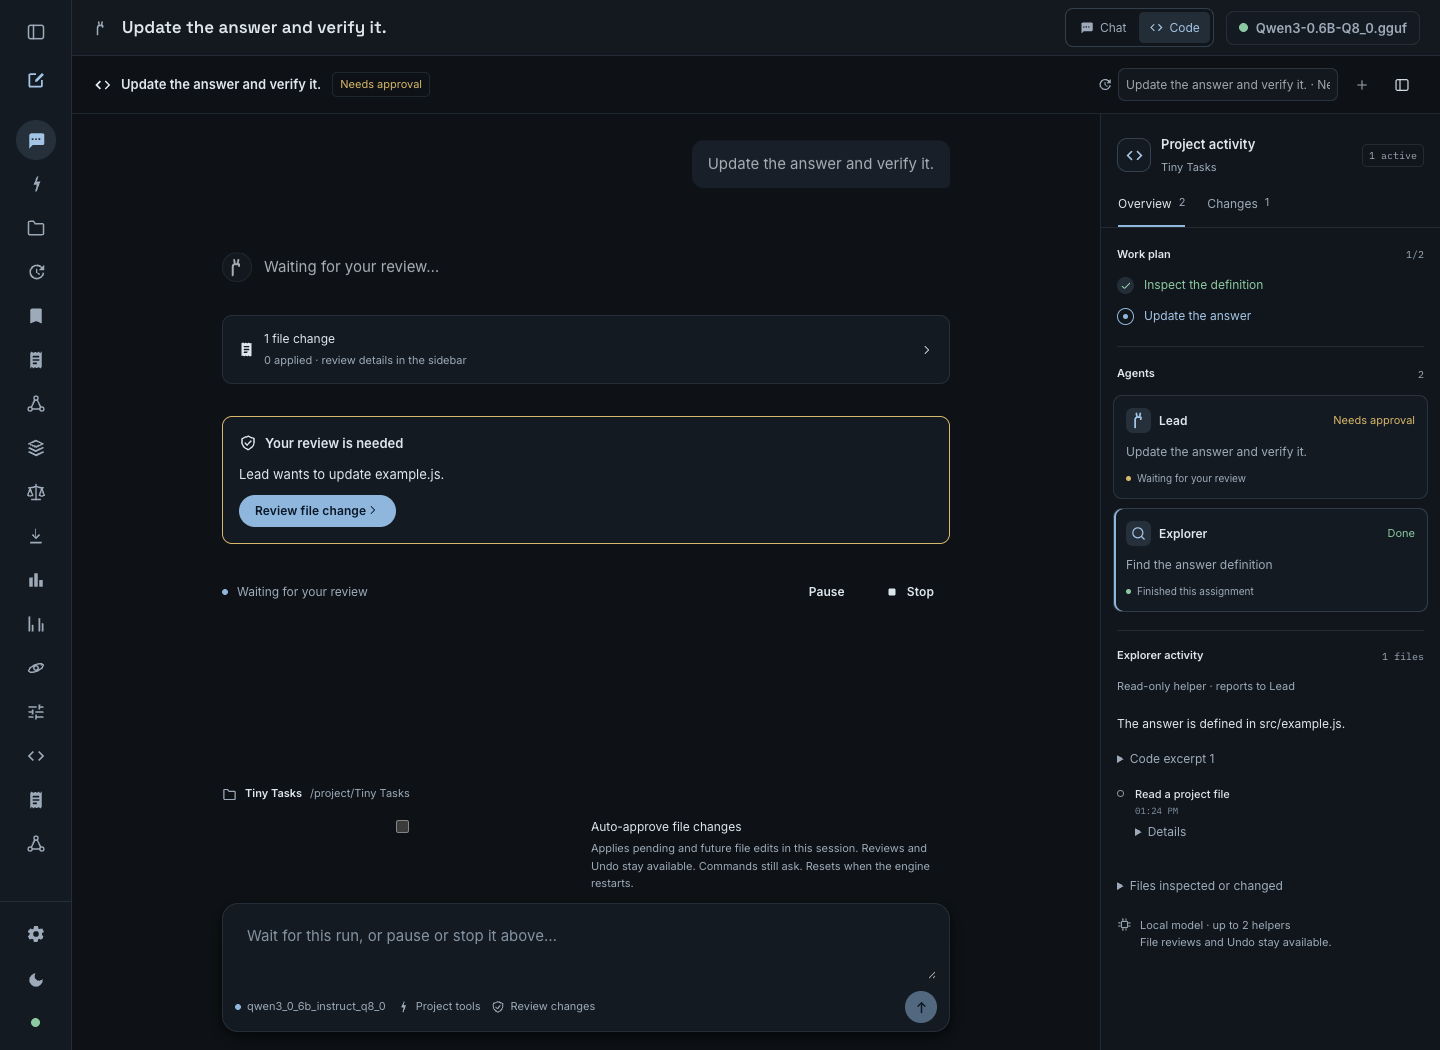
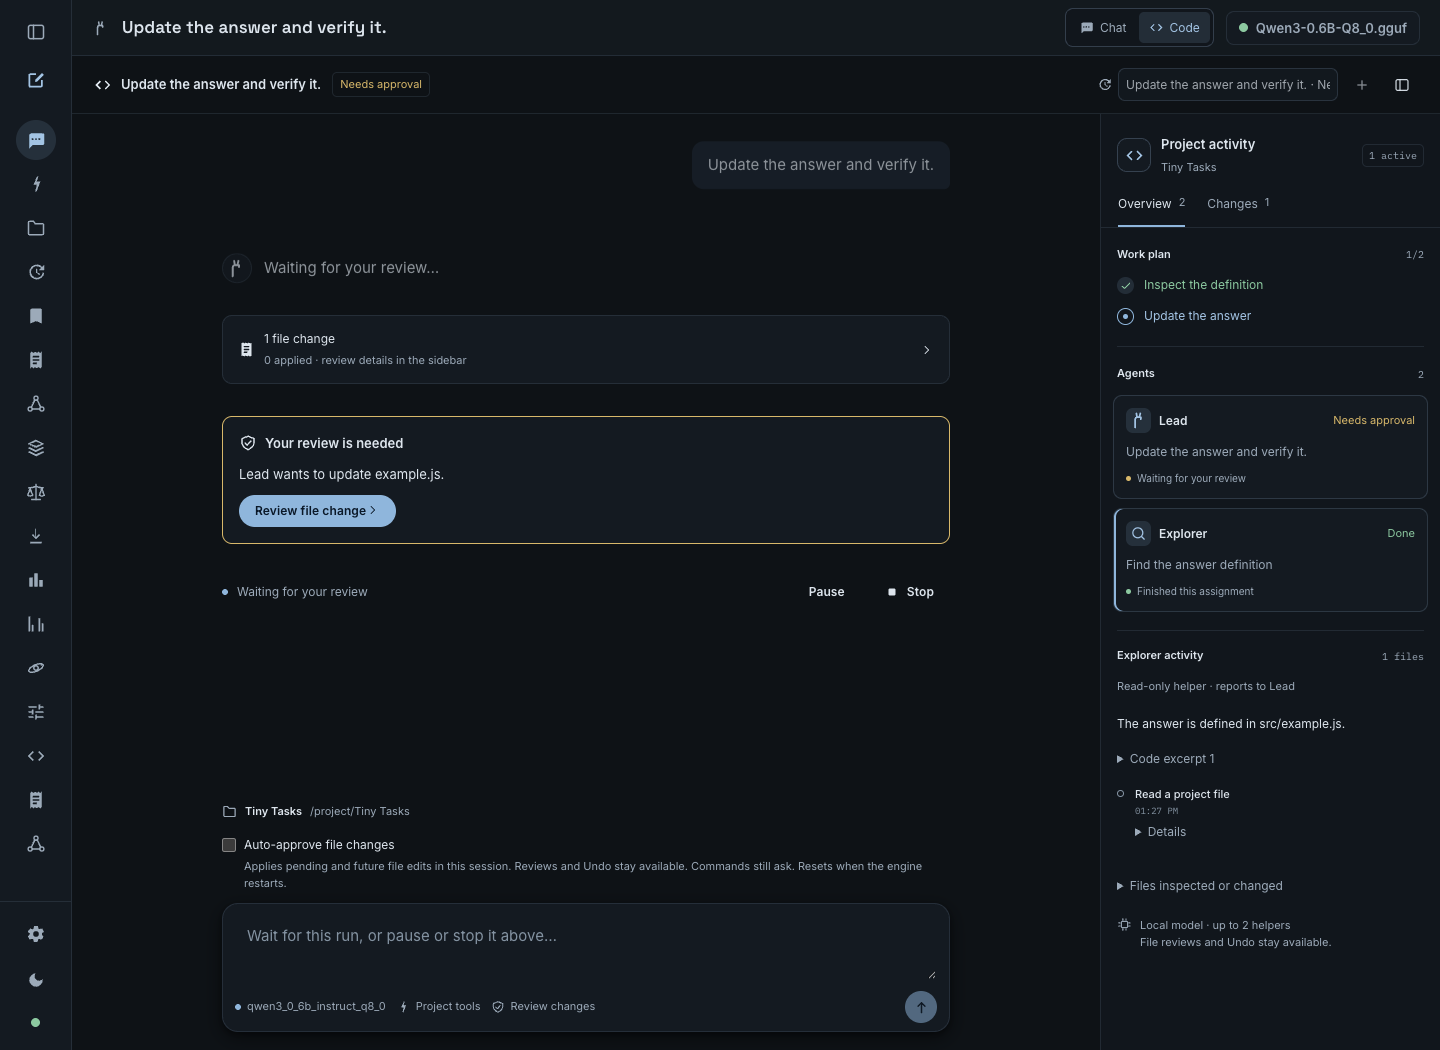
Keep Code approval checkboxes aligned with their labels

diff --git a/frontend/src/styles/coding.css b/frontend/src/styles/coding.css
@@ -85,7 +85,7 @@
 .coding-folder-field .coding-row { flex-wrap: nowrap; }
 .coding-folder-field input { flex: 1; min-width: 0; padding: 9px 11px; background: var(--color-surface); border: 1px solid var(--color-border-strong); border-radius: 7px; color: var(--color-text); font: inherit; font-size: 12px; }
 .coding-command-choice { display: flex; gap: 8px; align-items: flex-start; font-size: 12px; padding-top: 5px; }
-.coding-command-choice input { margin-top: 3px; }
+.coding-command-choice input { width: 14px; height: 14px; flex: 0 0 14px; margin: 3px 0 0; padding: 0; accent-color: var(--color-accent); }
 .coding-command-choice small { color: var(--color-text-muted); display: block; font-size: 11px; margin-top: 4px; }
 .coding-context { display: flex; align-items: center; gap: 8px; flex-wrap: wrap; margin-bottom: 9px; color: var(--color-text-muted); font-size: 11px; }
 .coding-context span { overflow-wrap: anywhere; }
